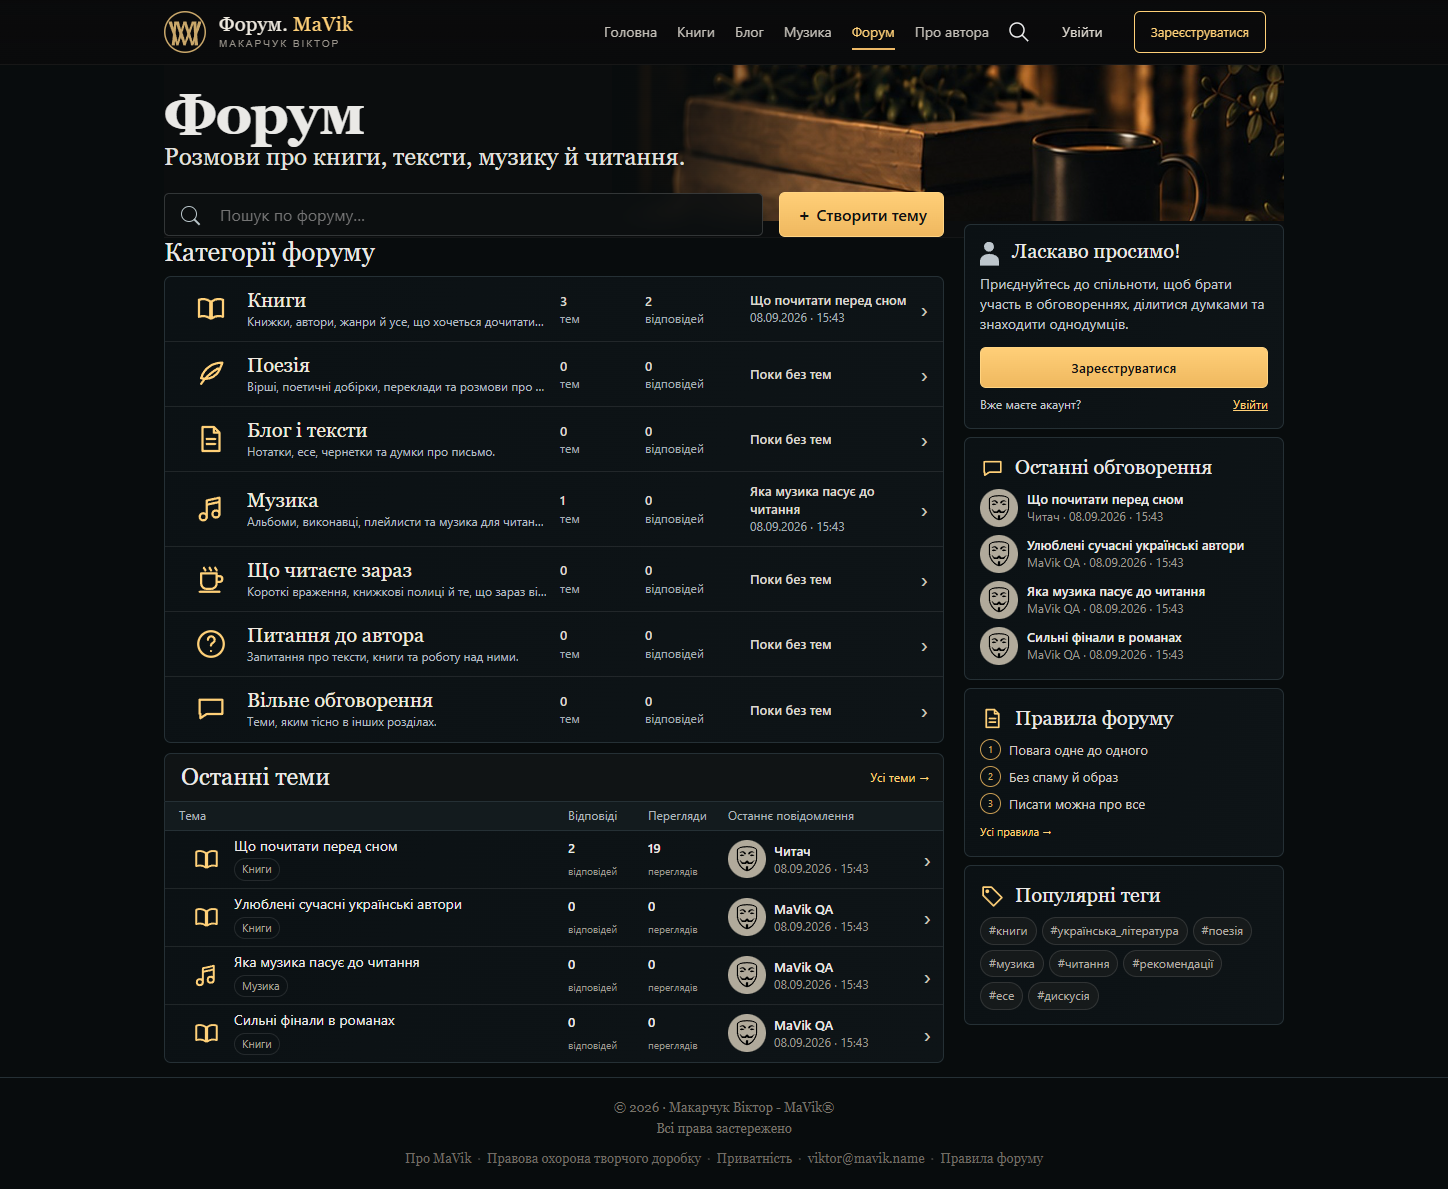
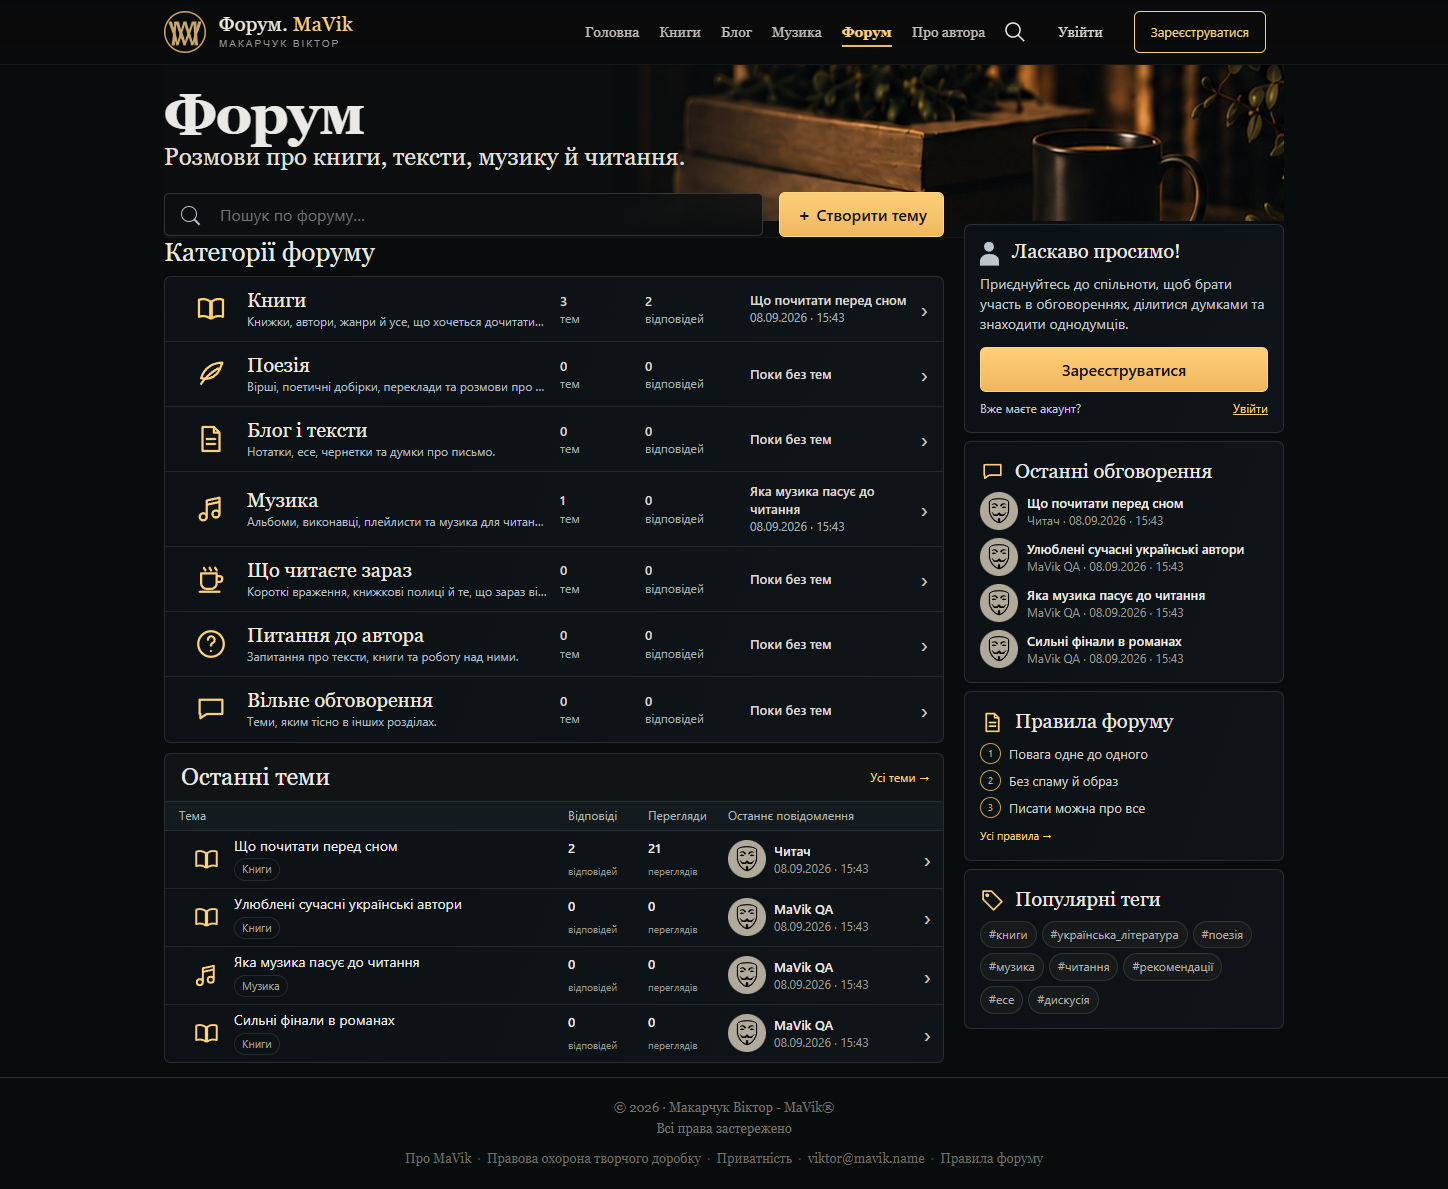
Match forum menu typography to parent MaVik site

Changed region(s): [[0.6837, 0.3112, 0.8702, 0.8713], [0.404, 0.0, 0.6837, 0.0622]]

diff --git a/mavik-sklad/files/forum/releases/0.9.1/source/assets/release.css b/mavik-sklad/files/forum/releases/0.9.1/source/assets/release.css
@@ -123,3 +123,8 @@ body{background:var(--bg);color:var(--text)}
 @media(min-width:781px){.forum-hero:before{background-image:linear-gradient(90deg,#080c0d,transparent 30%),url('/assets/forum-hero.jpg');background-size:cover;background-position:center;background-repeat:no-repeat}}
 
 .category-toolbar{display:flex;justify-content:flex-end;width:100%;margin:20px 0 24px}.category-toolbar .btn{min-height:44px}
+
+/* Menu typography from parent R300 assets/core/site.css. */
+.desktop-menu,.account-link{font:400 14px/1 Georgia,'Times New Roman',serif}.desktop-menu>a.active{font-weight:700}
+@media(min-width:768px) and (max-width:1099px){.desktop-menu{font-size:13px}}
+.mobile-menu a{font:400 24px/1.12 Georgia,'Times New Roman',serif}.mobile-menu a.active{font-weight:700}

diff --git a/mavik-sklad/files/forum/releases/0.9.1/source/app/bootstrap.php b/mavik-sklad/files/forum/releases/0.9.1/source/app/bootstrap.php
@@ -148,7 +148,7 @@ function forum_header(string $title): void {
 <title><?=e($title)?> — Форум MaVik</title>
 <link rel="icon" href="/favicon.ico"><link rel="apple-touch-icon" href="/assets/app/apple-touch-icon.png"><link rel="manifest" href="/manifest.webmanifest">
 <meta name="theme-color" content="#0b0b0c">
-<link rel="stylesheet" href="/assets/style.css?v=0.9"><link rel="stylesheet" href="/assets/release.css?v=0.9.1.2">
+<link rel="stylesheet" href="/assets/style.css?v=0.9"><link rel="stylesheet" href="/assets/release.css?v=0.9.1.3">
 <?php if ($maintenance): ?><meta name="robots" content="noindex,nofollow,noarchive"><?php endif; ?>
 </head>
 <body class="<?=basename($_SERVER['SCRIPT_NAME']??'')==='topic.php'?'topic-page':'forum-page'?>">

diff --git a/mavik-sklad/files/forum/releases/0.9.1/RELEASE-NOTES.md b/mavik-sklad/files/forum/releases/0.9.1/RELEASE-NOTES.md
@@ -2,6 +2,7 @@
 
 - Вхід зберігається 30 днів від останнього відвідування, включно з перезапуском браузера. Сесії ізольовані у storage/sessions; не видаляйте цей каталог під час оновлення. Після переходу на нове сховище потрібно один раз увійти повторно. Вихід і блокування облікового запису припиняють доступ.
 - Застосовано новий зразок подачі списку тем: аватар, тема й автор/дата створення; статистика; аватар, автор і дата останнього повідомлення. Кольори MaVik збережені.
+- Типографіка меню з материнського R300: Georgia, desktop 14px/1 (13px на проміжній ширині), mobile 24px/1.12; активний пункт 700.
 - Кнопка категорії вирівняна праворуч, із відступами 20px зверху та 24px до таблиці; оновлено ключ кешу CSS.
 - На сторінках категорій додано «+ Створити тему» з попереднім вибором поточної категорії у формі.
 - Фон головної замінено чистим фото без намальованої кнопки під справжньою «Створити тему».

diff --git a/mavik-sklad/files/forum/releases/0.9.1/source/README-0.9.1.md b/mavik-sklad/files/forum/releases/0.9.1/source/README-0.9.1.md
@@ -2,6 +2,7 @@
 
 - Вхід зберігається 30 днів від останнього відвідування, включно з перезапуском браузера. Сесії ізольовані у storage/sessions; не видаляйте цей каталог під час оновлення. Після переходу на нове сховище потрібно один раз увійти повторно. Вихід і блокування облікового запису припиняють доступ.
 - Застосовано новий зразок подачі списку тем: аватар, тема й автор/дата створення; статистика; аватар, автор і дата останнього повідомлення. Кольори MaVik збережені.
+- Типографіка меню з материнського R300: Georgia, desktop 14px/1 (13px на проміжній ширині), mobile 24px/1.12; активний пункт 700.
 - Кнопка категорії вирівняна праворуч, із відступами 20px зверху та 24px до таблиці; оновлено ключ кешу CSS.
 - На сторінках категорій додано «+ Створити тему» з попереднім вибором поточної категорії у формі.
 - Фон головної замінено чистим фото без намальованої кнопки під справжньою «Створити тему».
